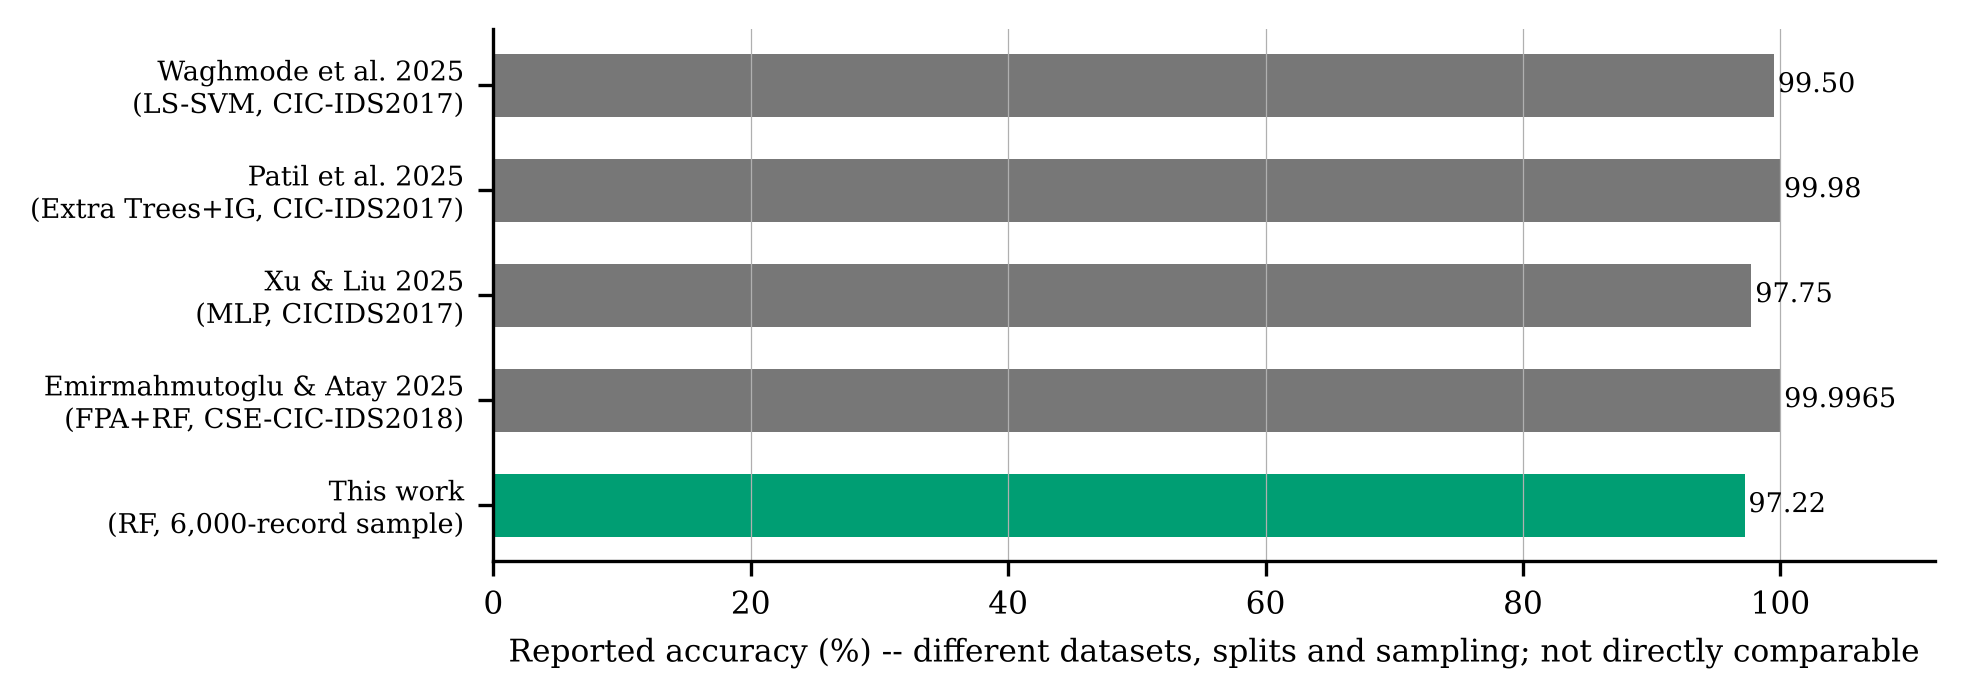
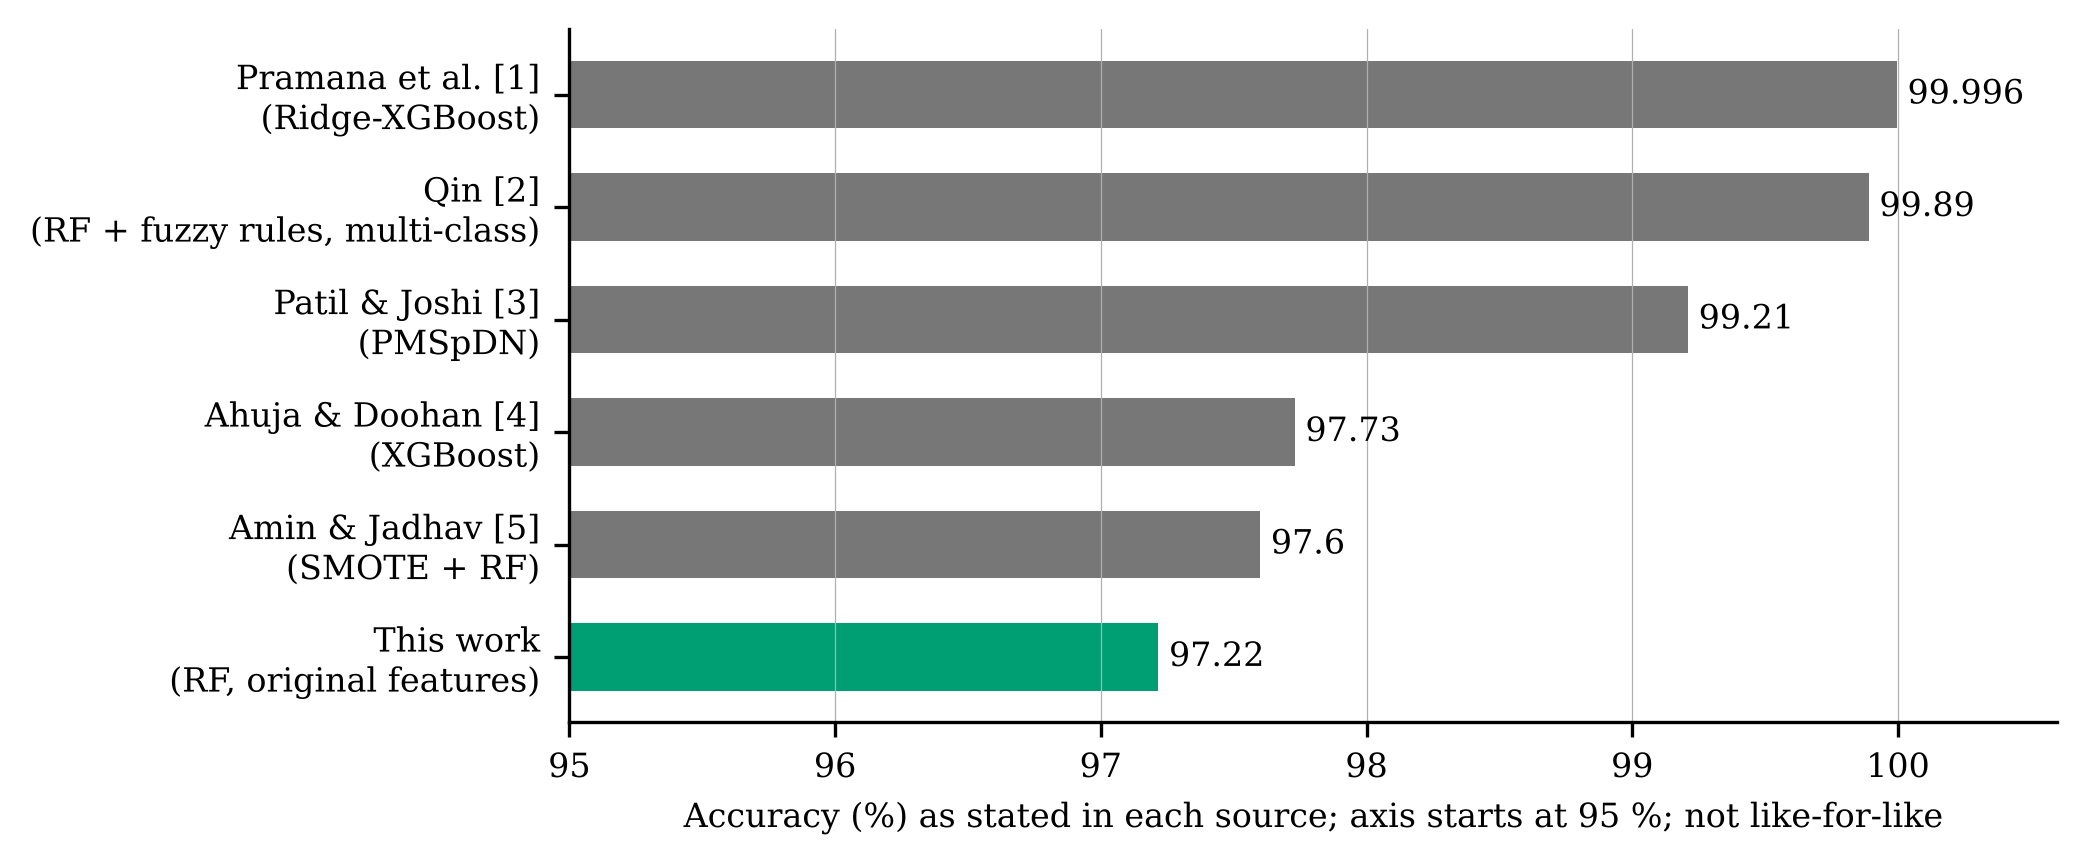
Regenerate faculty-format figures (fig10, fig11)

diff --git a/src/acn/make_springer_figs.py b/src/acn/make_springer_figs.py
@@ -28,7 +28,7 @@ def fig11(acc_ours):
             ("Xu & Liu 2025\n(MLP, CICIDS2017)", 97.75), ("Emirmahmutoglu & Atay 2025\n(FPA+RF, CSE-CIC-IDS2018)", 99.9965), ("This work\n(RF, 6,000-record sample)", acc_ours * 100)]
     fig, ax = plt.subplots(figsize=(6.4, 2.6)); y = np.arange(len(rows))[::-1]
     ax.barh(y, [r[1] for r in rows], color=["#777777"] * 4 + ["#009E73"], height=.6)
-    for yy, r in zip(y, rows): ax.text(r[1] + .06, yy, (f"{r[1]:.4f}" if r[1] > 99.9 else f"{r[1]:.2f}"), va="center", fontsize=8)
+    for yy, r in zip(y, rows): ax.text(r[1] + .06, yy, (f"{r[1]:.4f}".rstrip("0") if r[1] > 99.9 else f"{r[1]:.2f}"), va="center", fontsize=8)
     ax.set_yticks(y); ax.set_yticklabels([r[0] for r in rows], fontsize=8); ax.set_xlim(95, 100.5); ax.tick_params(axis="x", labelsize=8); ax.set_xlabel("Reported accuracy (%); axis starts at 95 %; not directly comparable", fontsize=8); ax.grid(axis="x", lw=.3)
     save(fig, "fig11_accuracy_comparison")
 
